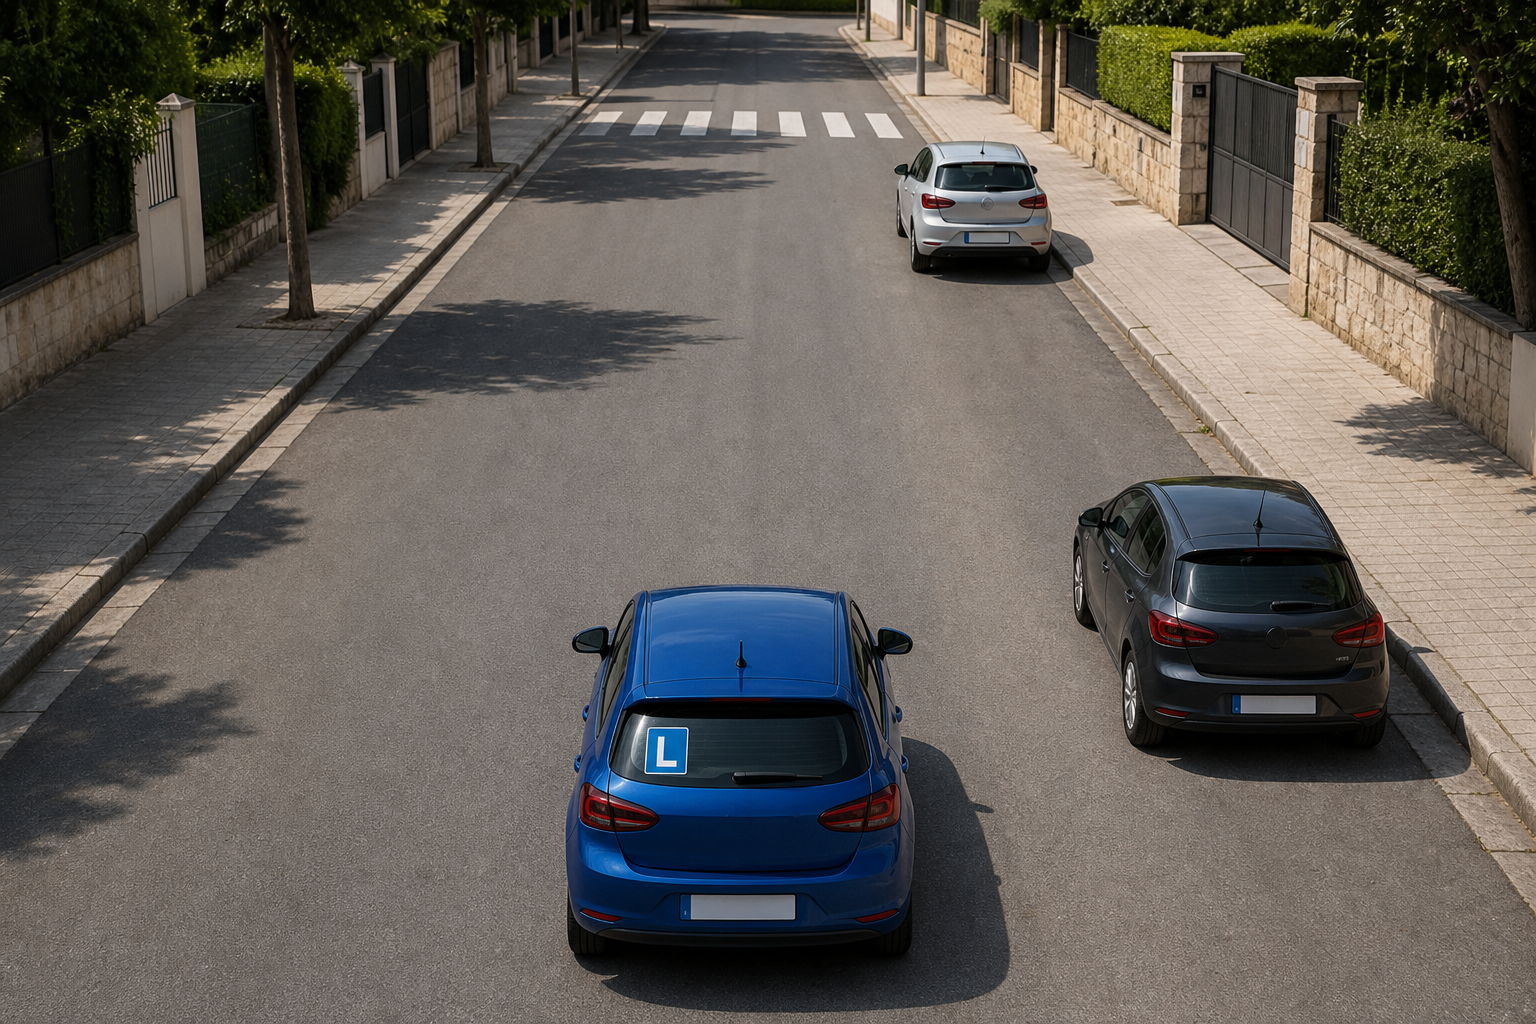
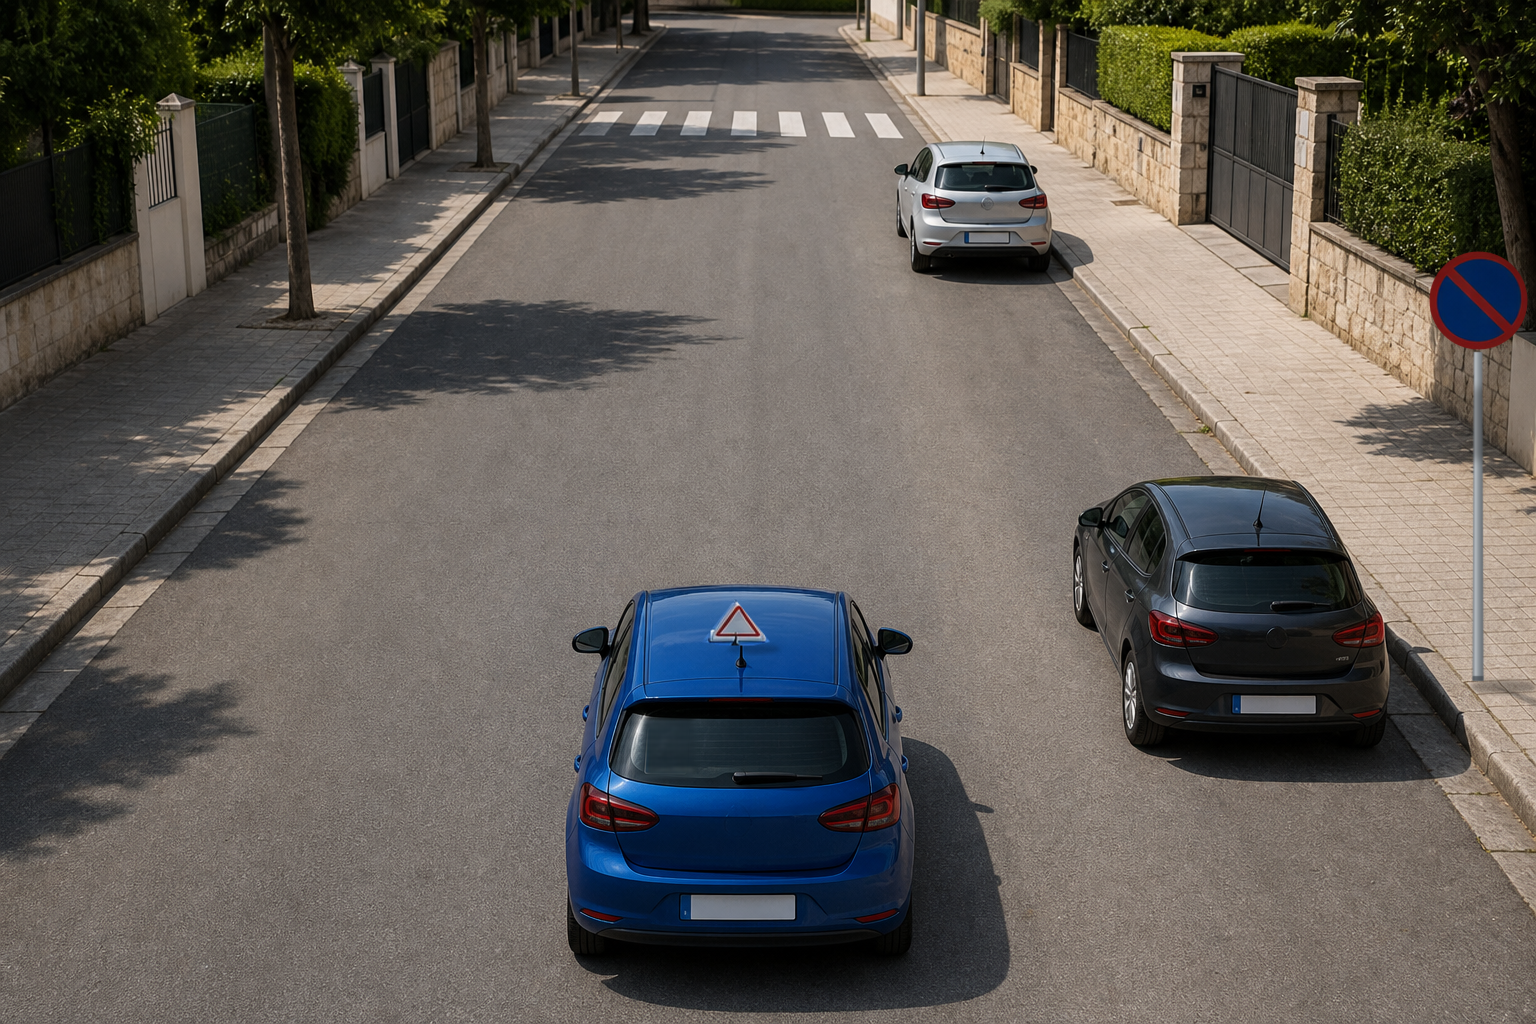
Bake the no-parking sign into the parking photo
Replace the synthetic SVG prohibition sign with a raster sign integrated
into parallel-parking-gap-photo-v1 (pole base at Jeffrey's picked pixel,
right of the curb by the black car). Also remove the rear-window L plate
and add the roof triangle per the scene agreement. Photo-backed scenes
now suppress synthetic sign overlays like other photographed features
(task #14).

Changed region(s): [[0.9062, 0.25, 1.0, 0.6875], [0.4062, 0.6875, 0.4688, 0.7812], [0.4688, 0.5938, 0.5, 0.6562]]

diff --git a/tests/manoeuvre-surfaces.test.js b/tests/manoeuvre-surfaces.test.js
@@ -283,8 +283,10 @@ test('photo-backed physical features do not receive redundant crosswalk, drivewa
     assert.doesNotMatch(markup, /class="scenario-crosswalk"|class="scenario-driveway"|class="scenario-restriction"/);
   }
 
+  // The no-parking sign is baked into the parking photo (task #14); no
+  // synthetic sign may be drawn over it either.
   const signed = modelForTemplate('park', 'parking-v1', 'curb-bays-clear-space');
-  assert.match(renderManoeuvreSurface(signed, 'en'), /data-road-sign="no-parking"/);
+  assert.doesNotMatch(renderManoeuvreSurface(signed, 'en'), /data-road-sign=/);
 });
 
 test('every accepted U-turn route geometrically finishes travelling down the original road', () => {
@@ -410,7 +412,7 @@ test('reveal distinguishes correct and wrong selections without marking a correc
   assert.match(revealedCorrectButton, /aria-pressed="false"/);
 });
 
-test('parking renders its audited prohibition sign; stopping renders none', () => {
+test('parking keeps its signed no-parking choice without synthetic sign drawings; stopping renders none', () => {
   const parking = modelForTemplate('park', 'parking-v1', 'curb-bays-clear-space');
   const parkingTarget = parking.targets.find(target => target.feature === 'no-parking-sign');
   assert.equal(parkingTarget.resultId, 'signed-no-parking');
@@ -419,11 +421,11 @@ test('parking renders its audited prohibition sign; stopping renders none', () =
     reveal: true,
     selectedTargetId: parkingTarget.id
   });
-  assert.match(parkingMarkup, /data-road-sign="no-parking"/);
-  assert.match(parkingMarkup, /data-road-sign="no-parking"[^>]+scale\(0\.666667 1\)/);
-  assert.equal((parkingMarkup.match(/class="road-sign-prohibition"/g) ?? []).length, 1);
+  // The sign lives in the photo raster itself (task #14): the choice keeps
+  // its stable IDs and label, but no synthetic sign is drawn over the scene.
+  assert.doesNotMatch(parkingMarkup, /data-road-sign=/);
+  assert.equal((parkingMarkup.match(/class="road-sign-prohibition"/g) ?? []).length, 0);
   assert.match(parkingMarkup, /No-parking sign/);
-  assert.doesNotMatch(parkingMarkup, /data-road-sign="no-stopping"/);
 
   // The stopping scene lost its sign in the 2026-08-12 regen: blocking a vado
   // is illegal without one, so no synthetic sign may be drawn over the photo.

diff --git a/src/manoeuvre-surfaces.js b/src/manoeuvre-surfaces.js
@@ -412,7 +412,9 @@ function manoeuvreDrawing(model, photoBacked = false) {
 function featureDrawing(target, photoBacked = false) {
   const x = target.x;
   const y = target.y;
-  if (photoBacked && (target.feature === 'crosswalk' || target.feature === 'driveway' || target.feature === 'restricted-marking')) {
+  // Photo-backed scenes carry these features in the raster itself (the
+  // no-parking sign is baked into parallel-parking-gap-photo-v1, task #14).
+  if (photoBacked && ['crosswalk', 'driveway', 'restricted-marking', 'no-parking-sign', 'no-stopping-sign'].includes(target.feature)) {
     return '';
   }
   if (target.feature === 'crosswalk') {
@@ -424,20 +426,17 @@ function featureDrawing(target, photoBacked = false) {
   if (target.feature === 'restricted-marking') {
     return `<path d="M ${x - 7} ${y - 6} L ${x + 7} ${y + 6} M ${x + 7} ${y - 6} L ${x - 7} ${y + 6}" class="scenario-restriction"/>`;
   }
-  if (target.feature === 'no-parking-sign') return prohibitionSign(x, y, 'no-parking', photoBacked);
-  if (target.feature === 'no-stopping-sign') return prohibitionSign(x, y, 'no-stopping', photoBacked);
+  if (target.feature === 'no-parking-sign') return prohibitionSign(x, y, 'no-parking');
+  if (target.feature === 'no-stopping-sign') return prohibitionSign(x, y, 'no-stopping');
   return '';
 }
 
-function prohibitionSign(x, y, type, photoBacked = false) {
+function prohibitionSign(x, y, type) {
   const centerY = roundCoordinate(y - 7);
   const lines = type === 'no-stopping'
     ? '<path d="M -3.5 -3.5 L 3.5 3.5" class="road-sign-prohibition"/><path d="M 3.5 -3.5 L -3.5 3.5" class="road-sign-prohibition"/>'
     : '<path d="M -3.5 3.5 L 3.5 -3.5" class="road-sign-prohibition"/>';
-  const transform = photoBacked
-    ? `translate(${x} ${centerY}) scale(0.666667 1)`
-    : `translate(${x} ${centerY})`;
-  return `<g data-road-sign="${type}" transform="${transform}">
+  return `<g data-road-sign="${type}" transform="translate(${x} ${centerY})">
     <circle r="5" class="road-sign-face"/>
     ${lines}
     <path d="M 0 5 V 14" class="scenario-sign-post"/>

diff --git a/src/driving-scenes.js b/src/driving-scenes.js
@@ -60,8 +60,8 @@ export const DRIVING_SCENES = deepFreeze({
     asset: './assets/driving/parallel-parking-gap-photo-v1.webp',
     provenance: 'ai-generated-illustrative',
     alt: {
-      en: 'Illustrative urban road with a clear parallel-parking gap between two cars on the right curb',
-      es: 'Calle urbana ilustrativa con un espacio libre para estacionar en paralelo entre dos coches junto al bordillo derecho'
+      en: 'Illustrative urban road with a clear parallel-parking gap between two cars on the right curb and a no-parking sign beside the rear gap',
+      es: 'Calle urbana ilustrativa con un espacio libre para estacionar en paralelo entre dos coches junto al bordillo derecho y una señal de estacionamiento prohibido junto al hueco trasero'
     }
   },
   'urban-roadside-photo-v1': {
